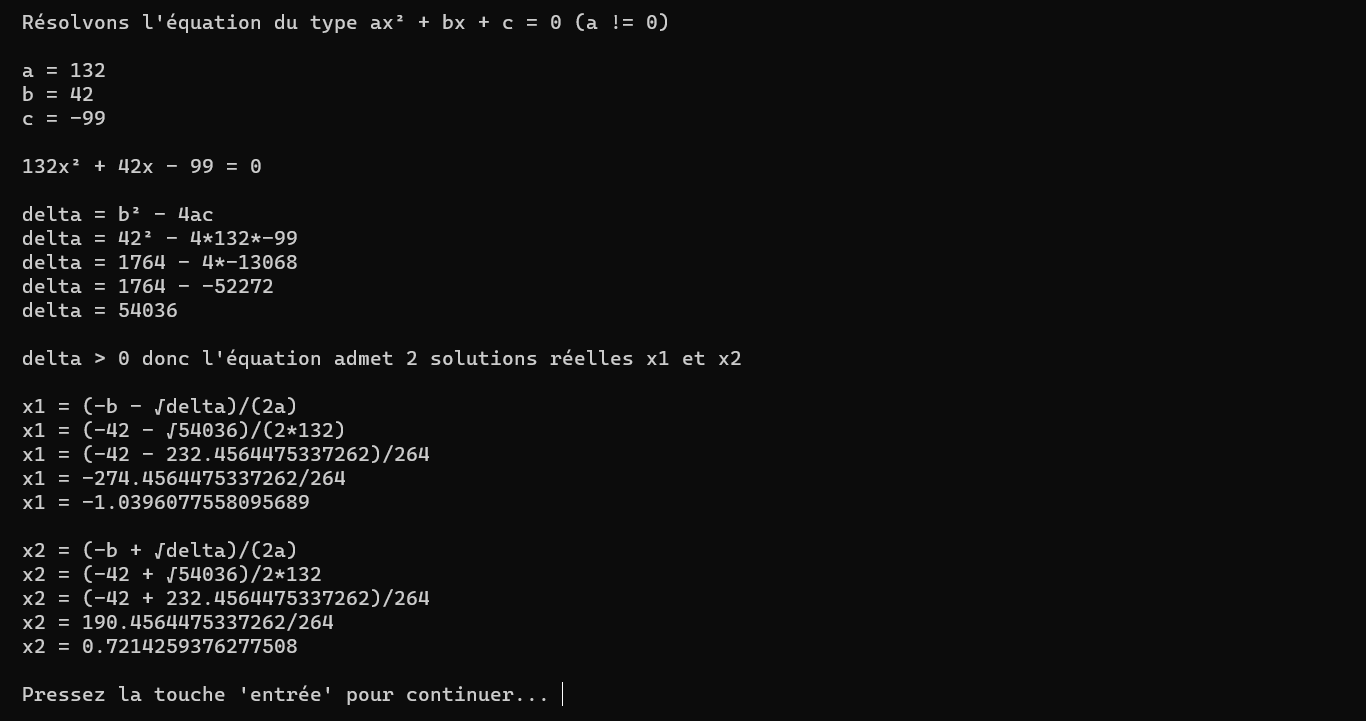
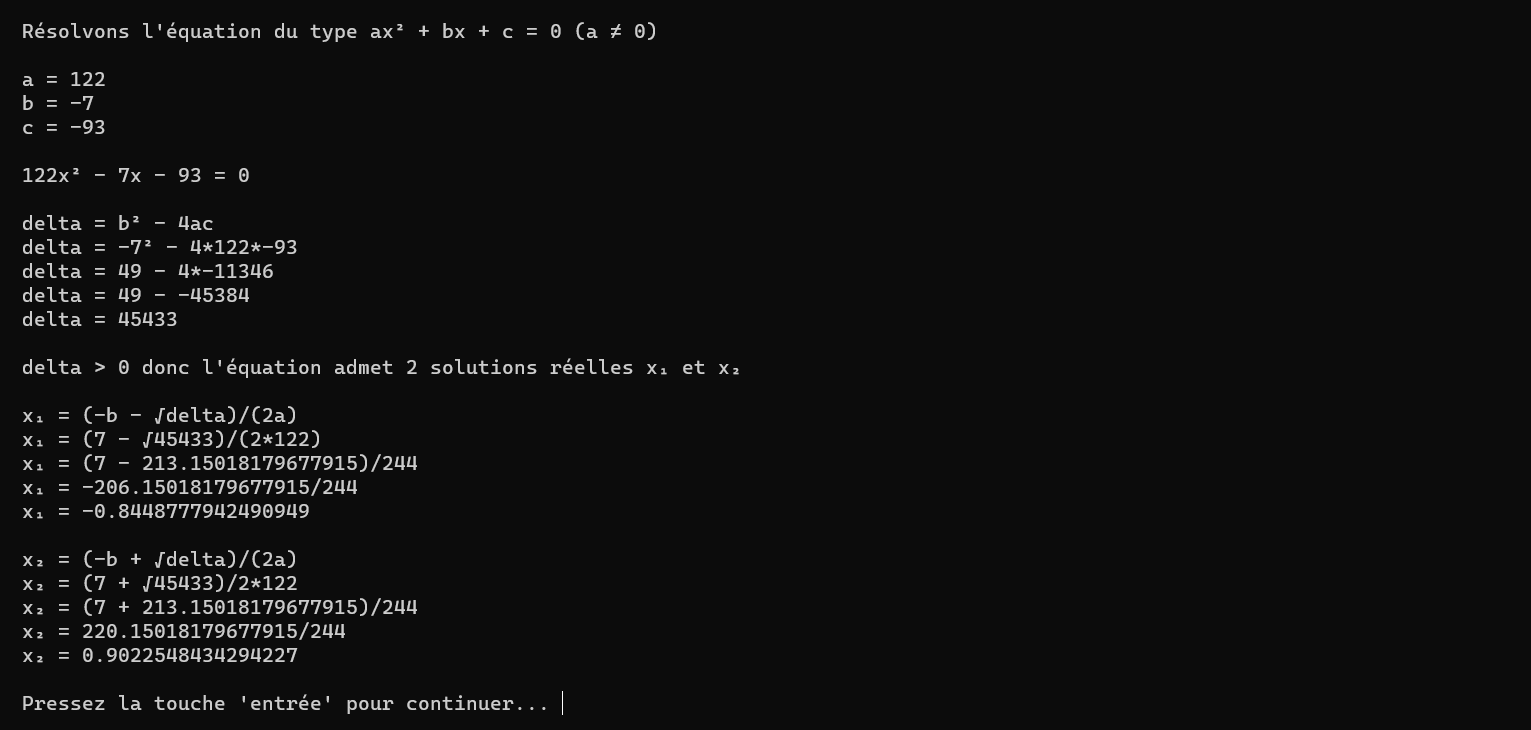
changed characters and improved readme

diff --git a/equation2.py b/equation2.py
@@ -7,7 +7,7 @@ import os
 
 def run():
     os.system("cls" if(os.name == "nt") else "clear")
-    print("\n Résolvons l'équation du type ax² + bx + c = 0 (a != 0) \n")
+    print("\n Résolvons l'équation du type ax² + bx + c = 0 (a ≠ 0) \n")
 
     a = get_user_value('a', null_ok=False)
     b = get_user_value('b')
@@ -69,14 +69,14 @@ def run():
         time.sleep(PRINTING_TIMELAPS)
         print(f" delta = {b*b} - {4*a*c}")
         time.sleep(PRINTING_TIMELAPS)
-        delta = b*b - 4*a*c
-        print(f" delta = {delta}\n")
+        dd = b*b - 4*a*c
+        print(f" delta = {dd}\n")
         time.sleep(PRINTING_TIMELAPS)
 
-        if(delta < 0):
+        if(dd < 0):
             print(" delta < 0 donc l'équation n'admet aucune solution réelle et x = Ø \n")
 
-        elif(delta == 0):
+        elif(dd == 0):
             print(" delta = 0 donc l'équation admet une unique solution réelle :\n")
             time.sleep(PRINTING_TIMELAPS)
             print(" x = -b/2a")
@@ -87,29 +87,29 @@ def run():
             time.sleep(PRINTING_TIMELAPS)
             print(f" x = {-b/(2*a)}\n")
 
-        elif(delta > 0):
-            print(" delta > 0 donc l'équation admet 2 solutions réelles x1 et x2\n")
+        elif(dd > 0):
+            print(" delta > 0 donc l'équation admet 2 solutions réelles x₁ et x₂\n")
             time.sleep(PRINTING_TIMELAPS)
-            print(" x1 = (-b - √delta)/(2a)")
+            print(" x₁ = (-b - √delta)/(2a)")
             time.sleep(PRINTING_TIMELAPS)
-            print(f" x1 = ({-b} - √{delta})/(2*{a})")
+            print(f" x₁ = ({-b} - √{dd})/(2*{a})")
             time.sleep(PRINTING_TIMELAPS)
-            print(f" x1 = ({-b} - {sqrt(delta)})/{2*a}")
+            print(f" x₁ = ({-b} - {sqrt(dd)})/{2*a}")
             time.sleep(PRINTING_TIMELAPS)
-            print(f" x1 = {-b -sqrt(delta)}/{2*a}")
+            print(f" x₁ = {-b -sqrt(dd)}/{2*a}")
             time.sleep(PRINTING_TIMELAPS)
-            print(f" x1 = {(-b -sqrt(delta))/(2*a)}\n")
+            print(f" x₁ = {(-b -sqrt(dd))/(2*a)}\n")
 
             time.sleep(PRINTING_TIMELAPS)
-            print(" x2 = (-b + √delta)/(2a)")
+            print(" x₂ = (-b + √delta)/(2a)")
             time.sleep(PRINTING_TIMELAPS)
-            print(f" x2 = ({-b} + √{delta})/2*{a}")
+            print(f" x₂ = ({-b} + √{dd})/2*{a}")
             time.sleep(PRINTING_TIMELAPS)
-            print(f" x2 = ({-b} + {sqrt(delta)})/{2*a}")
+            print(f" x₂ = ({-b} + {sqrt(dd)})/{2*a}")
             time.sleep(PRINTING_TIMELAPS)
-            print(f" x2 = {-b + sqrt(delta)}/{2*a}")
+            print(f" x₂ = {-b + sqrt(dd)}/{2*a}")
             time.sleep(PRINTING_TIMELAPS)
-            print(f" x2 = {(-b + sqrt(delta))/(2*a)}\n")
+            print(f" x₂ = {(-b + sqrt(dd))/(2*a)}\n")
 
     input(CONTINUE_MESSAGE + " ")
     main.main()

diff --git a/main.py b/main.py
@@ -3,17 +3,19 @@ import equation1
 import equation2
 import equation3
 
-EQUATIONS = ("ax + b = 0", "ax² + bx + c = 0", "ax + b = cx + d")
+CHOICES = ("ax + b = 0", "ax² + bx + c = 0", "ax + b = cx + d", "Quitter")
 
 def main():
-    choice_equation = console_menu.menu("Quelle équation voulez-vous résoudre ?", EQUATIONS, "\033[48;5;22m")
+    choice_equation = console_menu.menu("Quelle équation voulez-vous résoudre ?", CHOICES, "\033[48;5;22m")
 
-    if(choice_equation == EQUATIONS[0]):
+    if(choice_equation == CHOICES[0]):
         equation1.run()
-    elif(choice_equation == EQUATIONS[1]):
+    elif(choice_equation == CHOICES[1]):
         equation2.run()
-    elif(choice_equation == EQUATIONS[2]):
+    elif(choice_equation == CHOICES[2]):
         equation3.run()
+    else:
+        exit()
 
 if(__name__ == "__main__"):
     main()

diff --git a/equation1.py b/equation1.py
@@ -6,7 +6,7 @@ import os
 
 def run():
     os.system("cls")
-    print("\n Résolvons l'équation du type ax + b = 0 (a != 0)\n")
+    print("\n Résolvons l'équation du type ax + b = 0 (a ≠ 0)\n")
 
     a = get_user_value('a', null_ok=False)
     b = get_user_value('b')
